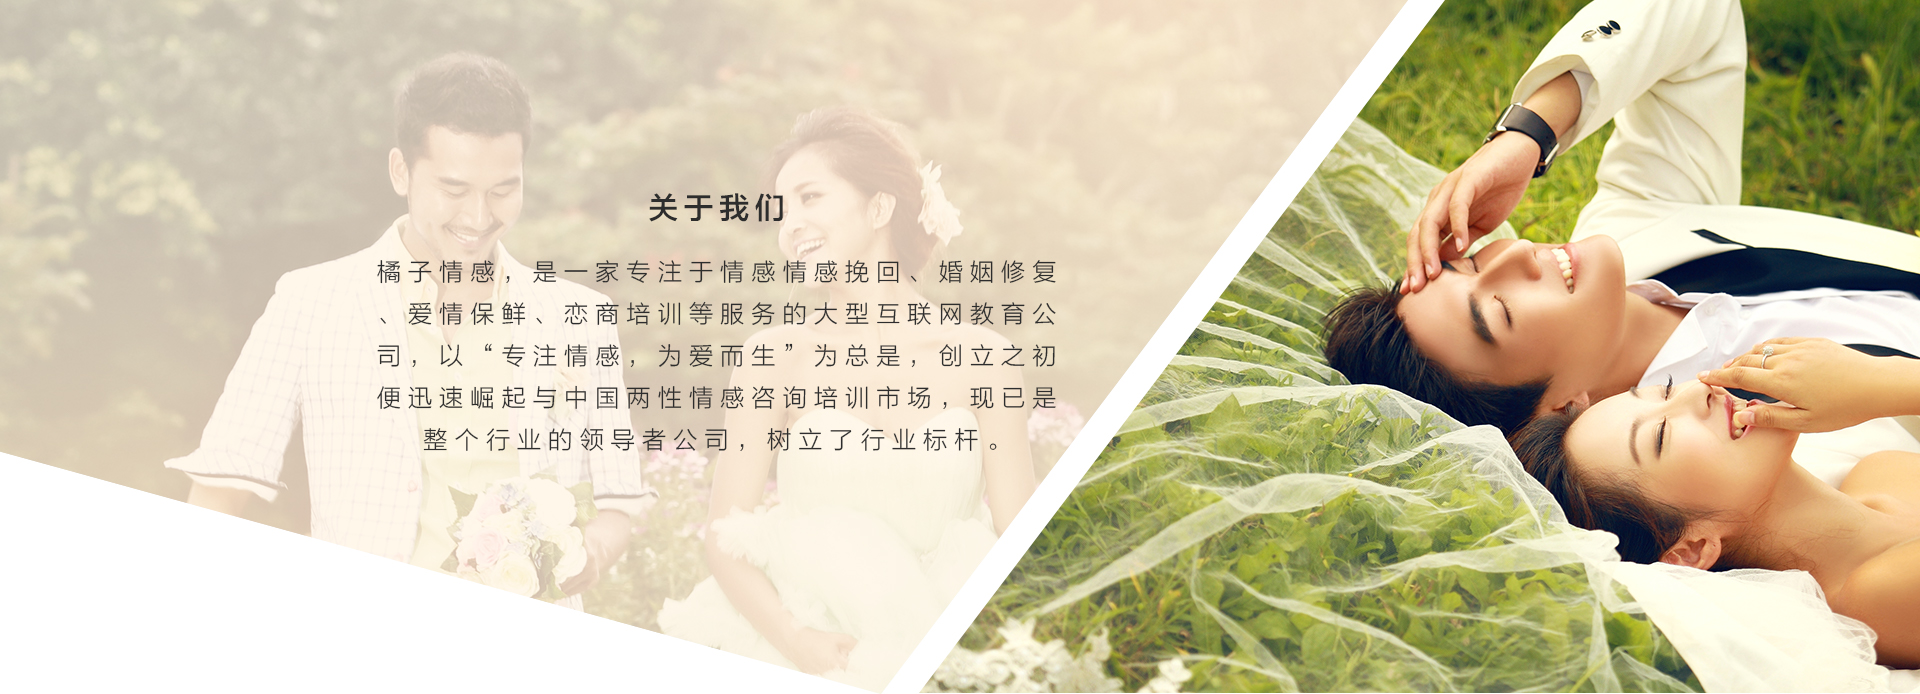
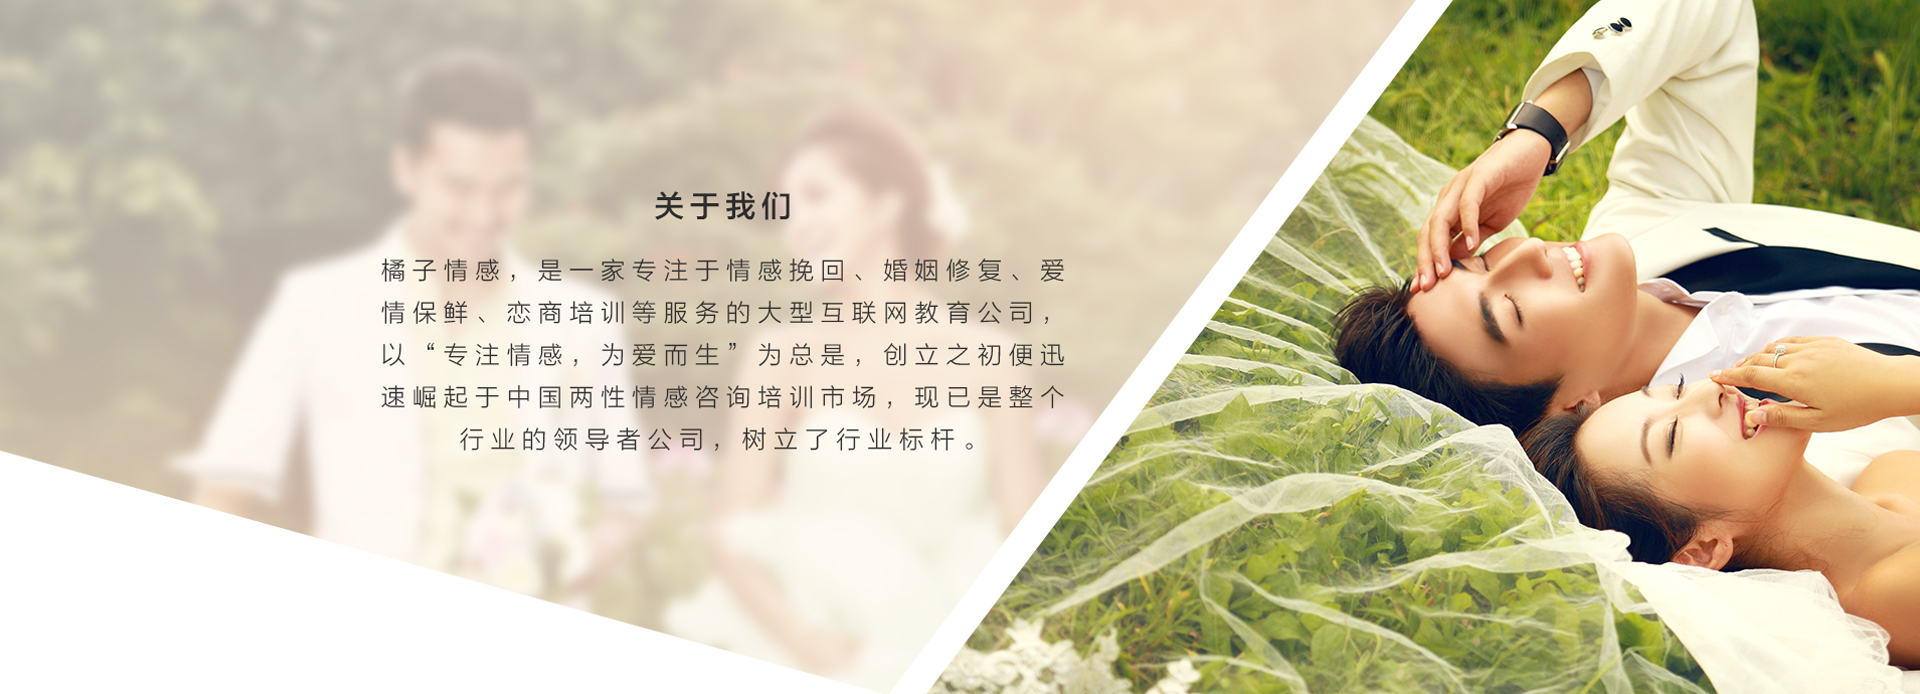
更新 PC 端图片，修正 PC 端文字错误

diff --git a/about-us.html b/about-us.html
@@ -477,7 +477,7 @@
 												<a href="./news/new15.html">了解更多>>></a>
 											</div> -->
 											<div class="pagination-content-page-news-item">
-												<p>我们是一家人：飞扬老师、千无老师生日</p>
+												<p>我们是一家人：飞扬老师、千芜老师生日</p>
 												<a href="./news/new11.html">了解更多>>></a>
 											</div>
 											<div class="pagination-content-page-news-item">
@@ -548,7 +548,7 @@
                                 </div>
                                 <div class="item text-center">
                                     <div class="icon"></div>
-                                    <p class="title">咨询专业导师</p>
+                                    <p class="title">付费签约</p>
                                     <p class="des">
                                         入学登记 <br>
                                         签订正规合同
@@ -556,7 +556,7 @@
                                 </div>
                                 <div class="item text-center">
                                     <div class="icon"></div>
-                                    <p class="title">咨询专业导师</p>
+                                    <p class="title">组建多对一导师团</p>
                                     <p class="des">
                                         资深情感专家详细分析 <br>
                                         制定挽回方案
@@ -564,7 +564,7 @@
                                 </div>
                                 <div class="item text-center">
                                     <div class="icon"></div>
-                                    <p class="title">咨询专业导师</p>
+                                    <p class="title">执行挽回方案</p>
                                     <p class="des">
                                         导师团全程指导 <br>
                                         实时追踪进度
@@ -572,7 +572,7 @@
                                 </div>
                                 <div class="item text-center">
                                     <div class="icon"></div>
-                                    <p class="title">咨询专业导师</p>
+                                    <p class="title">后期情感维稳</p>
                                     <p class="des">
                                         售后服务保障 <br>
                                         给出长期关系维护建议
@@ -580,7 +580,7 @@
                                 </div>
                                 <div class="item text-center">
                                     <div class="icon"></div>
-                                    <p class="title">咨询专业导师</p>
+                                    <p class="title">客户档案系统销毁</p>
                                     <p class="des">严格保护隐私</p>
                                 </div>
                             </div>

diff --git a/course.html b/course.html
@@ -278,7 +278,7 @@
                                 <div class="circle">
                                     <canvas id="cvsThree"></canvas>
                                 </div>
-                                <p class="intro">橘子情感橘子情感用户满意度在 96.7% 以上</p>
+                                <p class="intro">橘子情感用户满意度在 96.7% 以上</p>
                             </div>
                         </div>
                     </div>
